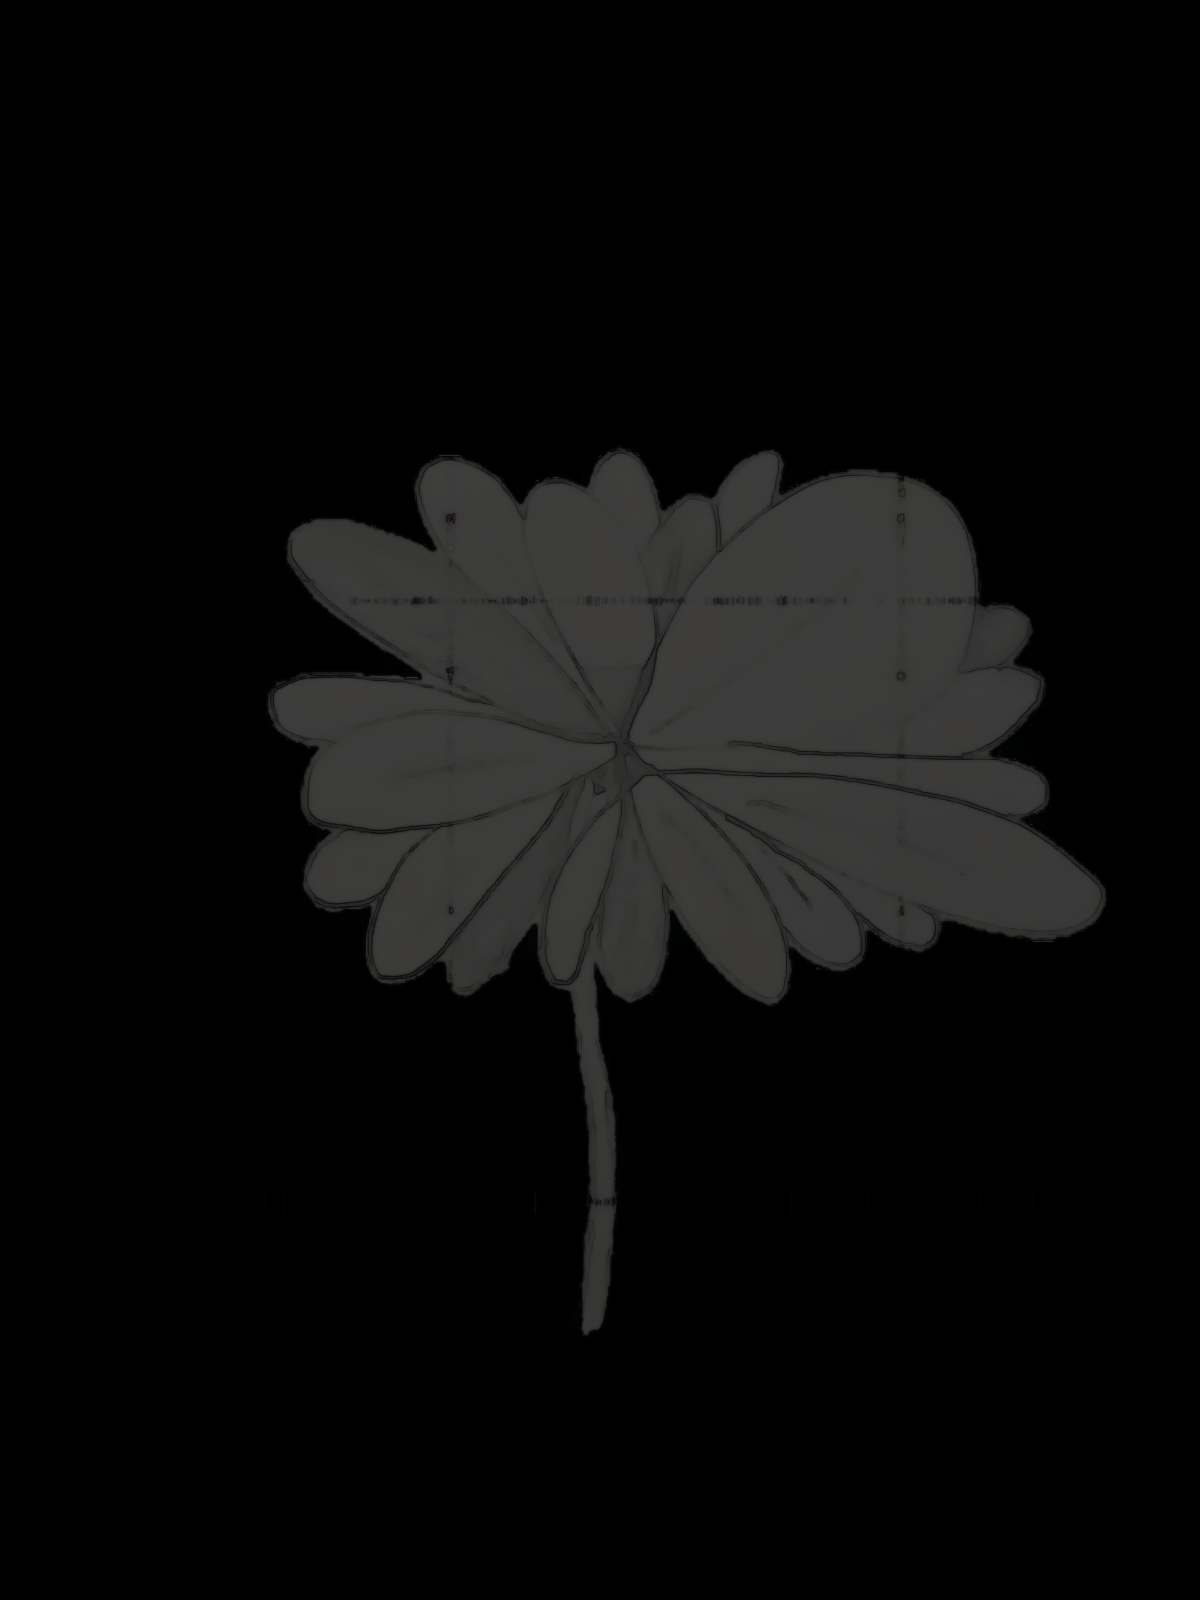
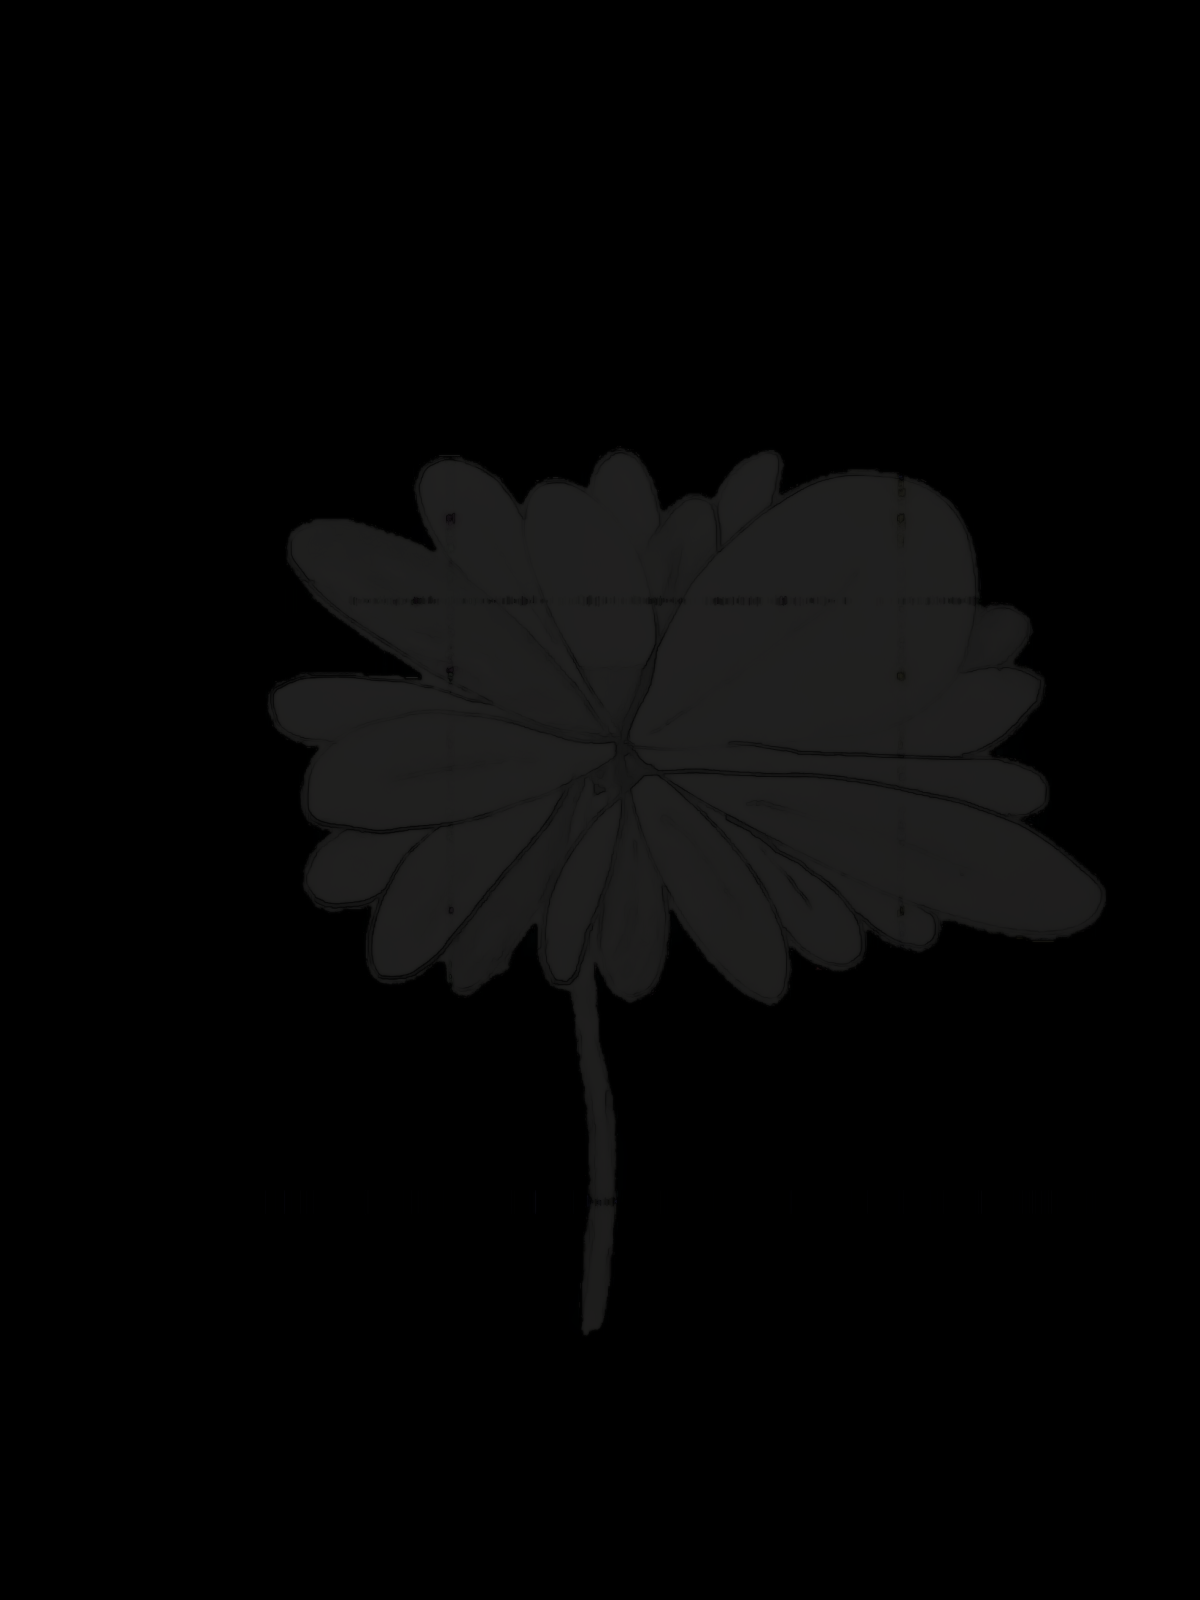
tweak: crush flower whites (brightness 0.30→0.16, max px=33) + opacity 0.72→0.42

Changed region(s): [[0.2158, 0.2812, 0.925, 0.8438]]

diff --git a/Europa Waters Page Dev/colorwheel.html b/Europa Waters Page Dev/colorwheel.html
@@ -22,7 +22,7 @@
       background-position: center center;
       background-repeat: no-repeat;
       mix-blend-mode: screen;
-      opacity: 0.72;
+      opacity: 0.42;
       pointer-events: none;
     }
 